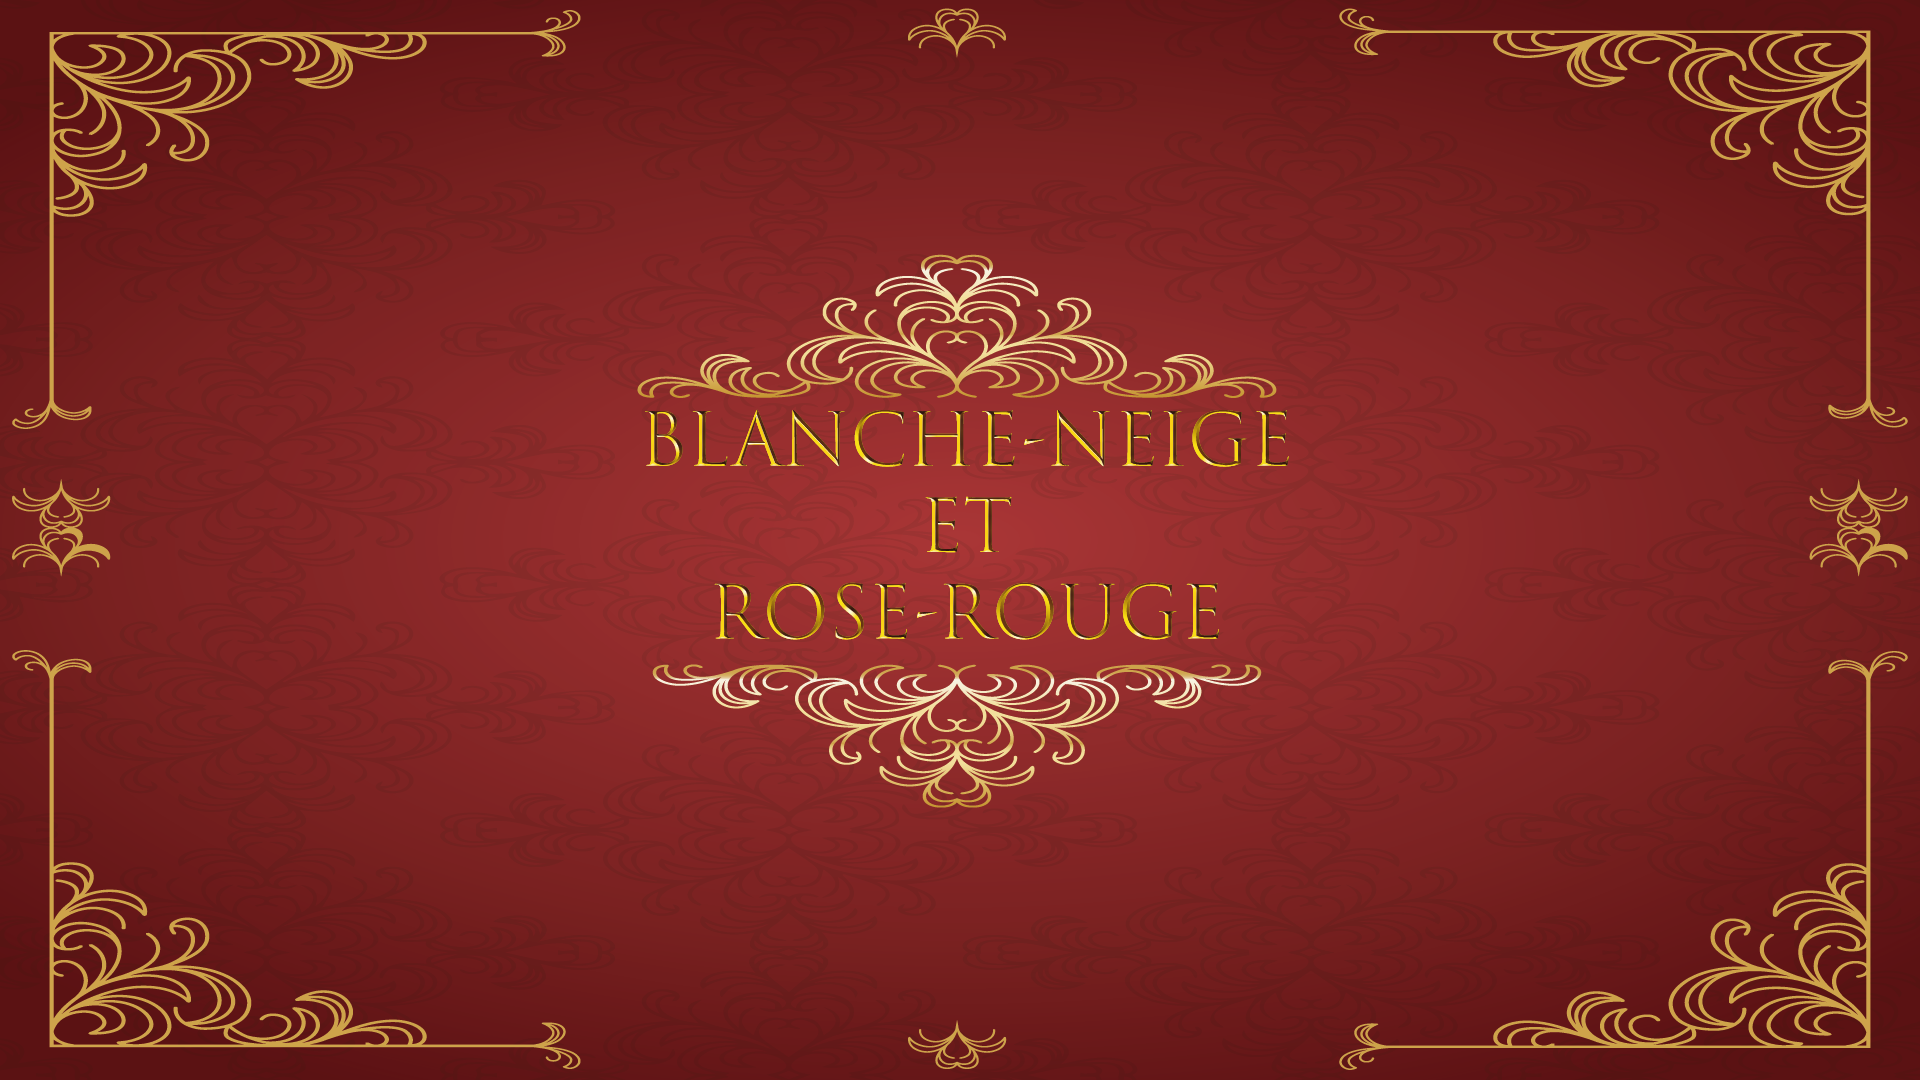
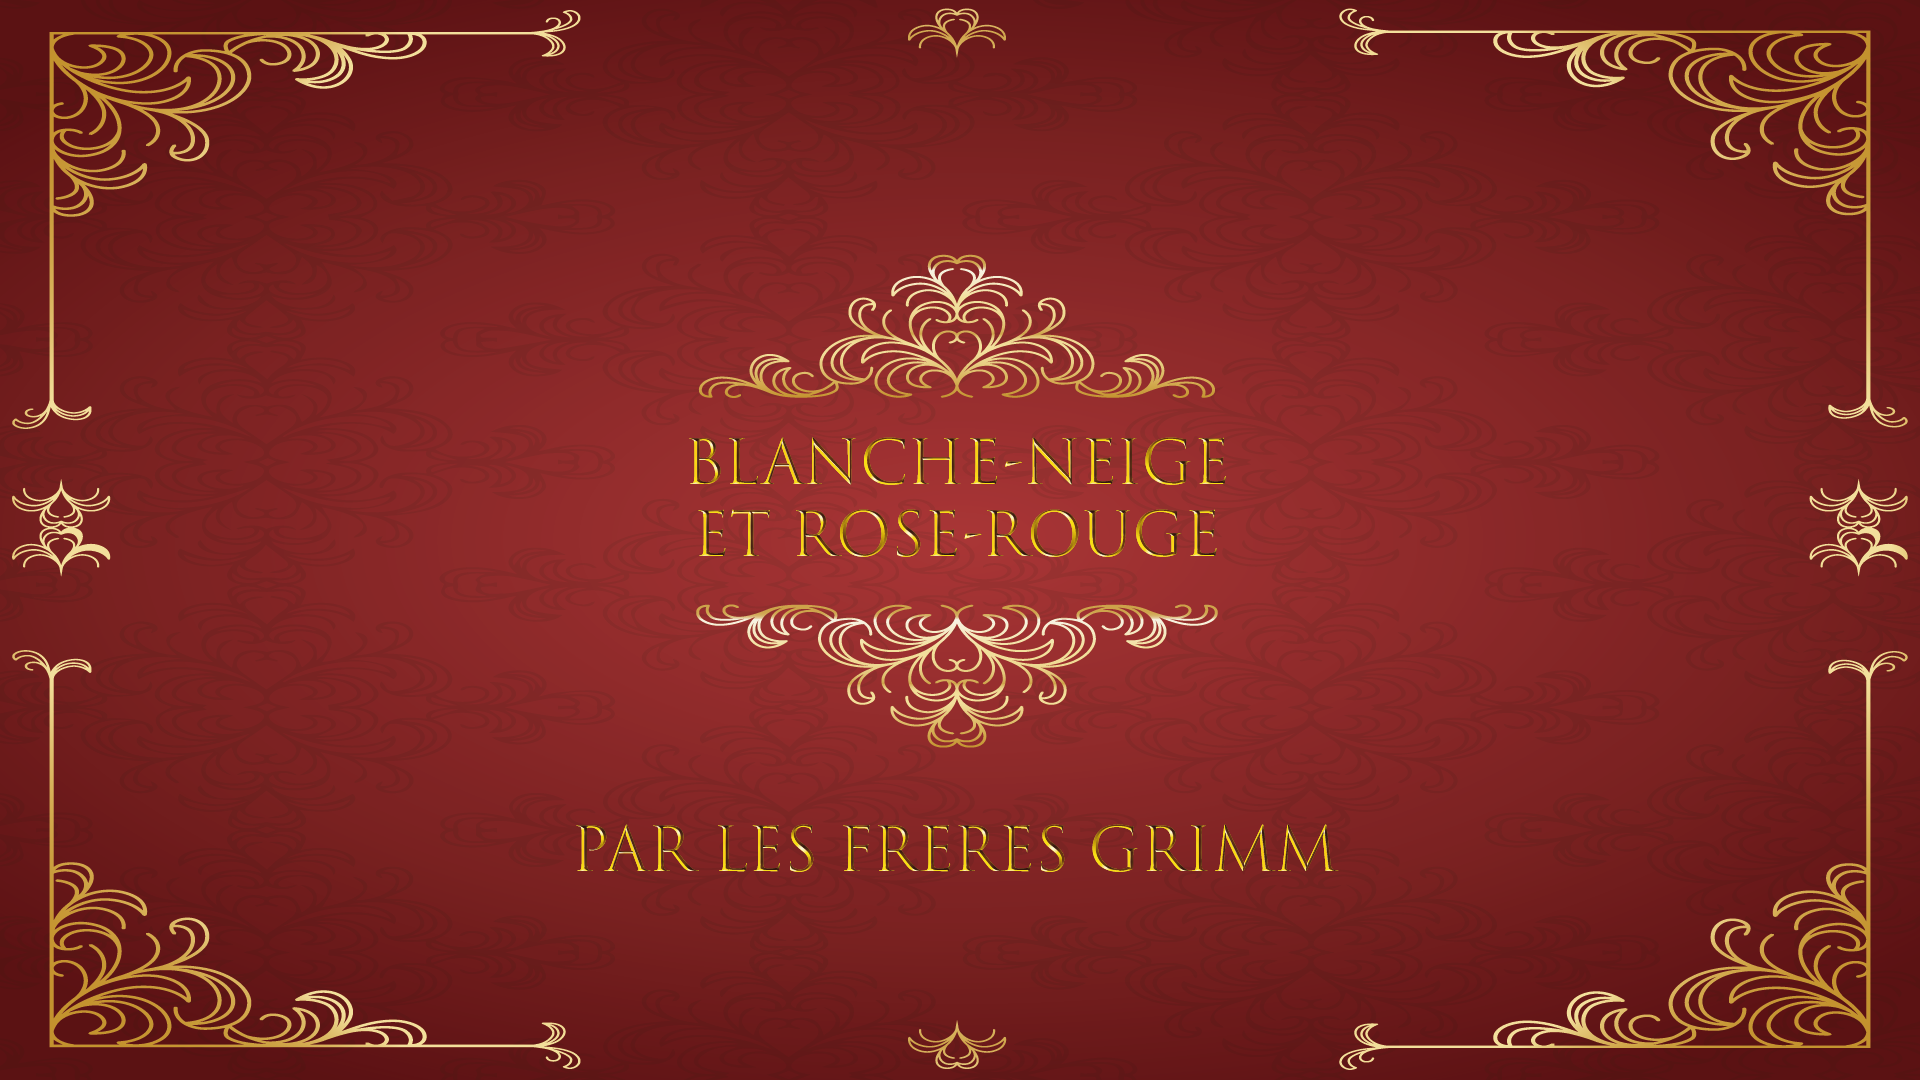
animation_cover

diff --git a/src/app/components/conte-viewer/conte-viewer.component.css b/src/app/components/conte-viewer/conte-viewer.component.css
@@ -619,3 +619,49 @@
 @media (prefers-reduced-motion: reduce) {
   .angel-halo .halo-circle { animation: none; }
 }
+
+/* ========== Paillettes dorées pour la slide 1 ========== */
+.golden-sparkle {
+  position: fixed;
+  width: 8px;
+  height: 8px;
+  background: rgba(255, 215, 0, 0.8);
+  border-radius: 50%;
+  pointer-events: none;
+  z-index: 10;
+}
+
+.white-sparkle {
+  position: fixed;
+  width: 8px;
+  height: 8px;
+  background: rgba(252, 251, 249, 0.8);
+  border-radius: 50%;
+  pointer-events: none;
+  z-index: 10;
+}
+
+@keyframes sparkle {
+  0%, 100% { opacity: 0; transform: scale(0.3); }
+  50% { opacity: 1; transform: scale(1); }
+}
+
+/* Position des paillettes */
+.sparkle-1 { top: 33.5%; left: 49.5%; animation: sparkle 3s infinite ease-in-out; }
+.sparkle-2 { top: 39%; left: 41.5%; animation: sparkle 3s infinite ease-in-out 0.5s; }
+.sparkle-3 { top: 39%; left: 57.5%; animation: sparkle 3s infinite ease-in-out 1s; }
+.sparkle-4 { top: 43.7%; left: 35%; animation: sparkle 3s infinite ease-in-out 1.5s; } /*R*/
+.sparkle-5 { top: 43.5%; left: 64%; animation: sparkle 3s infinite ease-in-out 2s; }
+.sparkle-6 { top: 50%; left: 35%; animation: sparkle 3s infinite ease-in-out 2.5s; }
+.sparkle-7 { top: 50%; left: 64%; animation: sparkle 3s infinite ease-in-out 0.7s; } /*B*/
+.sparkle-8 { top: 56%; left: 41.5%; animation: sparkle 3s infinite ease-in-out 1.2s; }
+.sparkle-9 { top: 56%; left: 57.5%; animation: sparkle 3s infinite ease-in-out 2.5s; }
+.sparkle-10 { top: 61.5%; left: 49.5%; animation: sparkle 3s infinite ease-in-out 0.7s; }
+.sparkle-11 { top: 35.5%; left: 45.3%; animation: sparkle 3s infinite ease-in-out 1.2s; }
+.sparkle-12 { top: 35.5%; left: 53.5%; animation: sparkle 3s infinite ease-in-out 0.7s; }
+.sparkle-13 { top: 40%; left: 37.8%; animation: sparkle 3s infinite ease-in-out 1.2s; }
+.sparkle-14 { top: 40%; left: 61%; animation: sparkle 3s infinite ease-in-out 0.7s; }
+.sparkle-15 { top: 55%; left: 37.7%; animation: sparkle 3s infinite ease-in-out 1.2s; }
+.sparkle-16 { top: 55%; left: 61%; animation: sparkle 3s infinite ease-in-out 0.7s; }
+.sparkle-17 { top: 58.7%; left: 45.2%; animation: sparkle 3s infinite ease-in-out 1.2s; }
+.sparkle-18 { top: 58.7%; left: 53.5%; animation: sparkle 3s infinite ease-in-out 1.2s; }

diff --git a/src/app/components/conte-viewer/conte-viewer.component.ts b/src/app/components/conte-viewer/conte-viewer.component.ts
@@ -45,11 +45,11 @@ import { SLIDES } from '../../data/slides.data';
     ]),
     // Animation de rotation continue pour les fleurs
     trigger('flowerRotate', [
-      transition('* => rotate', [
-        animate('4s linear', 
-          style({ transform: 'rotate(360deg)' })
-        )
-      ])
+      state('initial', style({ transform: 'rotate(0)' })),
+      state('rotate', style({ transform: 'rotate(360deg)' })),
+      state('rotate2', style({ transform: 'rotate(720deg)' })),
+      transition('* => rotate', animate('4s linear')),
+      transition('* => rotate2', animate('4s linear'))
     ])
   ]
 })
@@ -63,7 +63,7 @@ export class ConteViewerComponent implements OnInit {
   // État pour gérer les animations des fleurs
   flowerRotationState: string = 'initial';
 
-  constructor(private cdr: ChangeDetectorRef) {}
+  constructor(private readonly cdr: ChangeDetectorRef) {}
 
   ngOnInit(): void {
     this.checkScreenSize();
@@ -71,10 +71,13 @@ export class ConteViewerComponent implements OnInit {
   }
 
   get currentSlide(): Slide {
-    return this.slides[this.currentSlideIndex];
+    return this.slides && this.slides.length > 0
+      ? this.slides[this.currentSlideIndex]
+      : ({} as Slide);
   }
 
   get progress(): number {
+    if (!this.slides?.length) return 0;
     return ((this.currentSlideIndex + 1) / this.slides.length) * 100;
   }
 
@@ -131,7 +134,7 @@ export class ConteViewerComponent implements OnInit {
   }
 
   @HostListener('window:resize', ['$event'])
-  onResize(): void {
+  onResize(event: UIEvent): void {
     this.checkScreenSize();
   }
 

diff --git a/src/app/components/conte-viewer/conte-viewer.component.html b/src/app/components/conte-viewer/conte-viewer.component.html
@@ -35,6 +35,28 @@
         <!-- Overlay pour améliorer la lisibilité -->
         <div class="slide-overlay"></div>
         
+        <!-- Paillettes dorées pour la première slide -->
+        <div *ngIf="currentSlideIndex === 0">
+          <div class="golden-sparkle sparkle-1"></div>
+          <div class="golden-sparkle sparkle-2"></div>
+          <div class="golden-sparkle sparkle-3"></div>
+          <div class="golden-sparkle sparkle-4"></div>
+          <div class="golden-sparkle sparkle-5"></div>
+          <div class="golden-sparkle sparkle-6"></div>
+          <div class="golden-sparkle sparkle-7"></div>
+          <div class="golden-sparkle sparkle-8"></div>
+          <div class="golden-sparkle sparkle-9"></div>
+          <div class="golden-sparkle sparkle-10"></div>
+          <div class="white-sparkle sparkle-11"></div>
+          <div class="white-sparkle sparkle-12"></div>
+          <div class="white-sparkle sparkle-13"></div>
+          <div class="white-sparkle sparkle-14"></div>
+          <div class="white-sparkle sparkle-15"></div>
+          <div class="white-sparkle sparkle-16"></div>
+          <div class="white-sparkle sparkle-17"></div>
+          <div class="white-sparkle sparkle-18"></div>
+        </div>
+        
         <!-- Textes positionnés -->
         <div class="text-elements">
           <div *ngFor="let textElement of currentSlide.textElements" 
